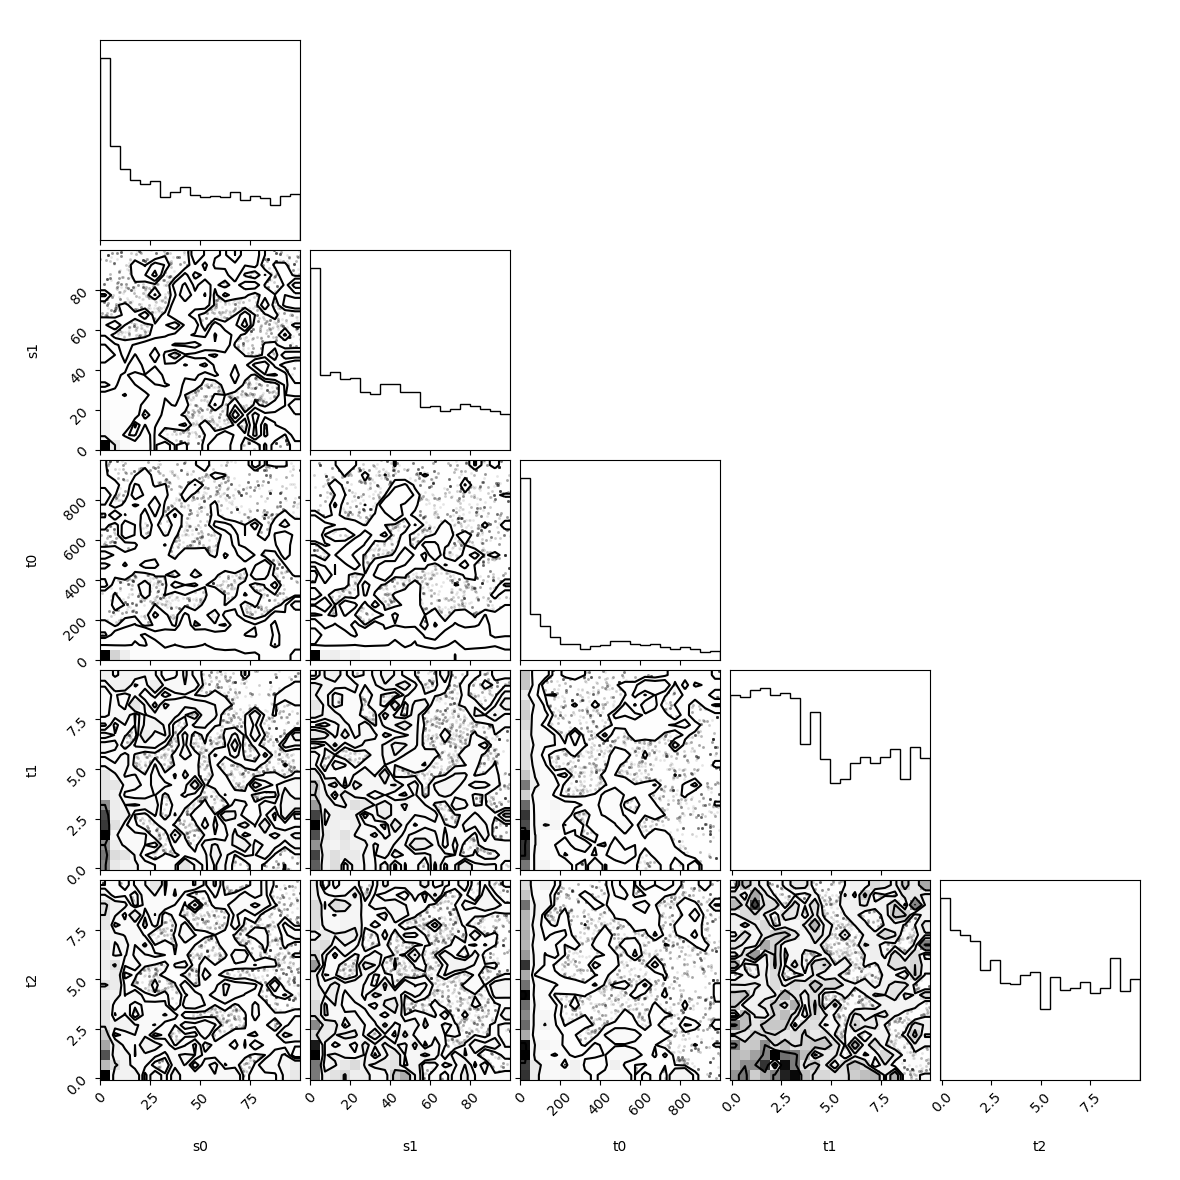
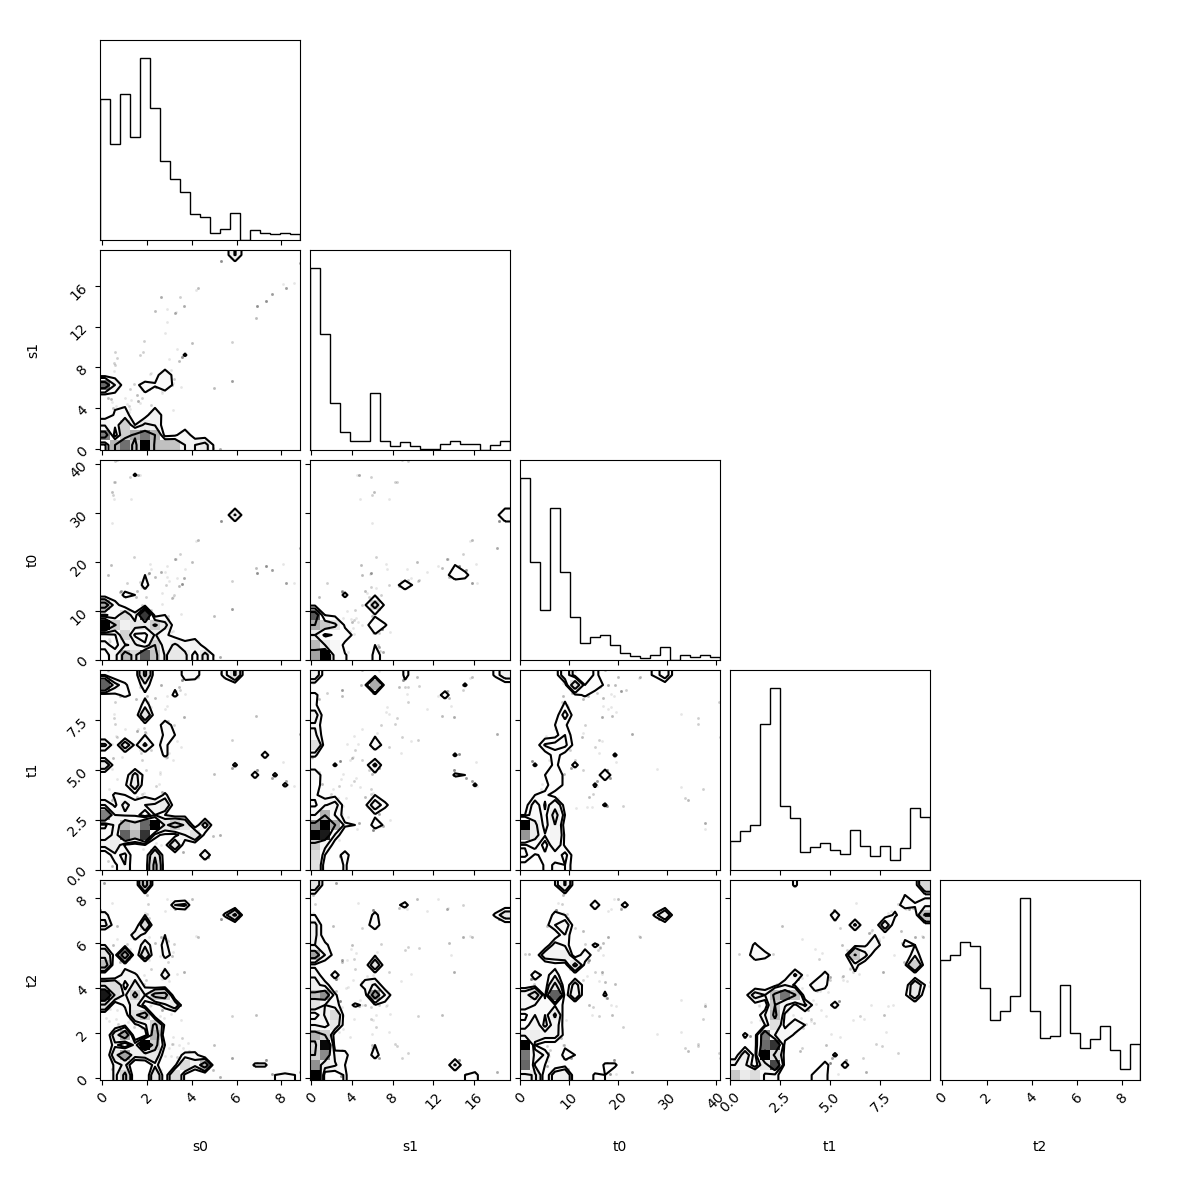
bug found in chebyshev! Corrected

diff --git a/hydro_calibration.py b/hydro_calibration.py
@@ -63,15 +63,21 @@ def hydro_1d_fipy(theta_ini, nx, dx, dt, params, ndays, sensor_loc,
         theta_sol_sensors = np.array([theta_sol[sl-1] for sl in sensor_loc[1:]]) # canal sensor is part of the model; cannot be part of the error
         ele_sensors = np.array([ele[sl-1] for sl in sensor_loc[1:]])
         h_sol_sensors = (np.log(theta_sol_sensors) -s0)/s1
-        WTD_from_theta_sol.append(h_sol_sensors - ele_sensors) # WTD = -(ele - h)
+        # Sensor measurements are positive downwards. In order to compare
+        # with them, we need the local definition of WTD = (ele - h), i.e.,
+        # positive downwards
+        wtd_sol = ele_sensors - h_sol_sensors
+        WTD_from_theta_sol.append(wtd_sol[0]) 
         
+
+    
     return np.array(WTD_from_theta_sol)
 
 def hydro_1d_chebyshev(theta_ini, N, dx, dt, params, ndays, sensor_loc,
              boundary_values_left, boundary_values_right, precip, evapotra, ele):
     
     s0 = params[0]; s1 = params[1];
-    t0 = params[1]; t1 = params[3]; t2 = params[4]
+    t0 = params[2]; t1 = params[3]; t2 = params[4]
     
     # Nonlinear heat equation Using Chebyshev:
     #    du/dt = d/dx(A(u)*du/dx) + S is equivalent to solving
@@ -96,44 +102,46 @@ def hydro_1d_chebyshev(theta_ini, N, dx, dt, params, ndays, sensor_loc,
     def dif(u, params):
         # Dffusivity
         s0 = params[0]; s1 = params[1];
-        t0 = params[1]; t1 = params[3]; t2 = params[4]
+        t0 = params[2]; t1 = params[3]; t2 = params[4]
         
-        D = t0/s1 * np.exp(t1 - t2*s0/s1) * np.power(u, t2/s1 - 1.)
+        diffusivity = t0/s1 * np.exp(t1 - t2*s0/s1) * np.power(u, t2/s1 - 1.)
         
-        return D
+        return diffusivity
     
     def dif_prime(u, params):
         # Derivative of diffusivity with respect to theta
         # Have to hardcode the derivative
         s0 = params[0]; s1 = params[1];
-        t0 = params[1]; t1 = params[3]; t2 = params[4]
+        t0 = params[2]; t1 = params[3]; t2 = params[4]
         
-        D_prime = t0/s1**2 * (t2-s1) * np.exp(t1 - t2*s0/s1) * np.power(u, (t2 - 2*s1)/s1)
+        diffusivity_prime = t0/s1**2 * (t2-s1) * np.exp(t1 - t2*s0/s1) * np.power(u, (t2 - 2*s1)/s1)
         
-        return D_prime
+        return diffusivity_prime
     
     def forward_Euler(v_old, dt, params):
         return v_old + dt*( dif_prime(v_old, params) * (D @ v_old)**2 +
-                           dif(v_old, params) * D2 @ v_old + source)
+                            dif(v_old, params) * D2 @ v_old + source)
     
     def RK4(v_old, dt, params):
+
     # 4th order Runge-Kutta
-        def rhs(u):
+        def rhs(u, params):
             # RHS of the PDE: du/dt = rhs(u)
             return dif_prime(u, params) * (D @ u)**2 + dif(u, params) * D2 @ u + source
+        
         # Diri BC have to be specified every time the rhs is evaluated!
-        k1 = rhs(v_old); k1[-1] = 0 # BC
-        k2 = rhs(v_old + dt/2*k1); k2[-1] = 0 # BC
-        k3 = rhs(v_old + dt/2*k2); k3[-1] = 0 # BC
-        k4 = rhs(v_old + dt*k3); k4[-1] = 0 # BC
+        k1 = rhs(v_old, params); k1[-1] = 0 # BC
+        k2 = rhs(v_old + dt/2*k1, params); k2[-1] = 0 # BC
+        k3 = rhs(v_old + dt/2*k2, params); k3[-1] = 0 # BC
+        k4 = rhs(v_old + dt*k3, params); k4[-1] = 0 # BC
         
         return v_old + 1/6 * dt * (k1 + 2*k2 + 2*k3 + k4)
      
     WTD_from_theta_sol = [] # returned quantity    
     
     # Solve iteratively
-    internal_niter = int(1/dt)
-
+    # internal_niter = int(1/dt)
+    internal_niter = 10
 
     for day in range(ndays):
         # Update source term 
@@ -145,7 +153,7 @@ def hydro_1d_chebyshev(theta_ini, N, dx, dt, params, ndays, sensor_loc,
         for i in range(internal_niter):
             
             # v_new = forward_Euler(v_old, dt, params)
-            v_new = RK4(v_old, dt, params)
+            v_new = forward_Euler(v_old, dt, params)
 
             # Reset BC
             v_new[-1] = boundary_values_left[day] # Diri
@@ -155,18 +163,16 @@ def hydro_1d_chebyshev(theta_ini, N, dx, dt, params, ndays, sensor_loc,
         
             v_old = v_new
             
-            
         # Compare with measured and append result
-        theta_sol = v_new
+        theta_sol = v_new[:][::-1] # We've got to reverse because of chebyshev transform!
+        
         theta_sol_sensors = np.array([theta_sol[sl-1] for sl in sensor_loc[1:]]) # canal sensor is part of the model; cannot be part of the error
-        ele_sensors = np.array([ele[sl-1] for sl in sensor_loc[1:]])
-        h_sol_sensors = (np.log(theta_sol_sensors) -s0)/s1
+        h_sol_sensors = (np.log(theta_sol_sensors) - s0)/s1
+
+        WTD_from_theta_sol.append(h_sol_sensors[0])
         
-        WTD_from_theta_sol.append(h_sol_sensors - ele_sensors) # WTD = -(ele - h)
-        
-         
-    
-    return np.array(WTD_from_theta_sol)
+      
+    return np.array(h_sol_sensors)
 
 #%%
 def cheb(N):

diff --git a/calibration_1d.py b/calibration_1d.py
@@ -34,7 +34,7 @@ Parse command-line arguments
 parser = argparse.ArgumentParser(description='Run MCMC parameter estimation')
  
 parser.add_argument('--ncpu', default=1, help='(int) Number of processors', type=int)
-parser.add_argument('-cl','--chainlength', default=100, help='(int) Length of MCMC chain', type=int)
+parser.add_argument('-cl','--chainlength', default=1, help='(int) Length of MCMC chain', type=int)
 parser.add_argument('-w','--nwalkers', default=10, help='(int) Number of walkers in parameter space', type=int)
 args = parser.parse_args()
  
@@ -178,25 +178,26 @@ def log_likelihood(params):
             last_sensor_name = 'sensor_' + str(last_sensor) 
             boundary_values_left = measurements['sensor_0'].to_numpy()[1:]
             h_boundary_values_left = ele[0] + boundary_values_left
-
+            theta_boundary_values_left = np.exp(s0 + s1*h_boundary_values_left)
             boundary_values_right = measurements[last_sensor_name].to_numpy()[1:]
             h_boundary_values_right = ele[-1] + boundary_values_right
+            theta_boundary_values_right = np.exp(s0 + s1*h_boundary_values_right)
 
             # TODO: the following line might not be perfect
             h_test_measurements = ele[sensor_locations] + measurements.drop(columns=['sensor_0', last_sensor_name]).to_numpy()[1:]
 
-            
-        
         theta_ini = np.exp(s0 + s1*hini)
-               
+        
+        print(f">>>>> params: {params}")
         try:
         # CHEBYSHEV
             dt = 1e-3 # TODO: Change to good stability criterion
             simulated_wtd = hydro_calibration.hydro_1d_chebyshev(theta_ini, nx-1, dx, dt, params, ndays, sensor_locations,
-                                                       theta_boundary_values_left, theta_boundary_values_right, precip, evapotra, ele)
+                                                        theta_boundary_values_left, theta_boundary_values_right, precip, evapotra, ele)
+            # print(simulated_wtd)
         # FIPY
-        #     simulated_wtd = hydro_calibration.hydro_1d_chebyshev(theta_ini, nx, dx, dt, params, ndays, sensor_locations,
-        #                                                theta_boundary_values_left, theta_boundary_values_right, precip, evapotra, ele)
+            # simulated_wtd = hydro_calibration.hydro_1d_fipy(theta_ini, nx, dx, dt, params, ndays, sensor_locations,
+            #                                             theta_boundary_values_left, theta_boundary_values_right, precip, evapotra, ele)
         except: # if error in hydro computation
             print("###### SOME ERROR IN HYDRO #######")
             return -np.inf

diff --git a/analyze_calibr_1d.py b/analyze_calibr_1d.py
@@ -82,7 +82,7 @@ def confidence_intervals(ci_percents, n_sensors, ndays, n_posterior_samples):
     """
 
     # translate CI percentages to how many items to pick up from array
-    n_elements_to_pick = np.array(ci_percents)/100.*N_POSTERIOR_SAMPLES 
+    n_elements_to_pick = np.array(ci_percents)/100.*n_posterior_samples 
     n_elements_to_pick = n_elements_to_pick.astype(int)
     
     conf_interv_results = np.zeros(shape=(n_sensors, ndays, len(ci_percents), 2))
@@ -115,8 +115,10 @@ def read_from_backend(filename):
     
     return reader
 
+# fname = r"C:\Users\03125327\Desktop\mcmc_result_chain.h5"
 fname = "mcmc_result_chain.h5"
 reader = read_from_backend(fname)
+samples = reader.get_chain(discard=0, thin=1, flat=True)
 fat_samples = reader.get_chain(flat=False)
 
 #%%
@@ -132,7 +134,6 @@ def corner_plot(samples, savefig=True):
     
     return 0
 
-samples = reader.get_chain(discard=0, thin=1, flat=True)
 corner_plot(samples, savefig=True)
 
 #%%

diff --git a/own_cheb_trials.py b/own_cheb_trials.py
@@ -57,7 +57,7 @@ source = 2. # P- ET
 
 def dif(u):
     # Dffusivity
-    params = [2.0, 1.1, 1.0, 2.0, 1.3] # s0, s1, t0, t1, t2
+    params = [2.0, 1.1, 1.0, 2.0, 2.3] # s0, s1, t0, t1, t2
     s0 = params[0]; s1 = params[1];
     t0 = params[1]; t1 = params[3]; t2 = params[4];
     
@@ -68,7 +68,7 @@ def dif(u):
 def dif_u(u):
     # Derivative of diffusivity with respect to theta
     # Have to hardcode the derivative
-    params = [2.0, 1.1, 1.0, 2.0, 1.3] # s0, s1, t0, t1, t2
+    params = [2.0, 1.1, 1.0, 2.0, 2.3] # s0, s1, t0, t1, t2
     s0 = params[0]; s1 = params[1];
     t0 = params[1]; t1 = params[3]; t2 = params[4];
     D_prime = t0/s1**2 * (t2-s1) * np.exp(t1 - t2*s0/s1) * np.power(u, (t2 - 2*s1)/s1)
